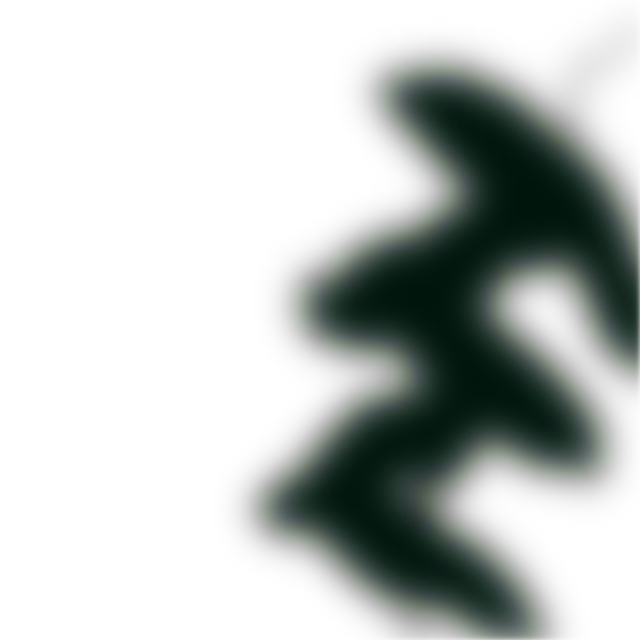
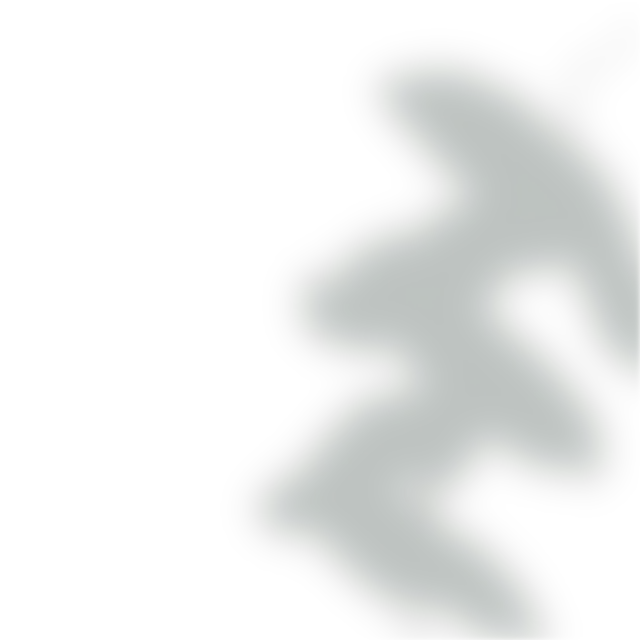
Mobile : un seul calque de fond, immobile, pour un défilement fluide
- Téléphones/tablettes : halo, ombres de feuilles et tapis réunis dans le
  fond de .mat ; .light, .glow et .shadow ne sont plus affichés.
- Calques fixes à la hauteur 100lvh : plus redimensionnés quand la barre
  d'adresse se replie pendant le défilement.
- Opacité des ombres intégrée aux images (plus légères : 23 et 20 Ko).

diff --git a/index.html b/index.html
@@ -50,14 +50,18 @@ html{scroll-padding-top:env(safe-area-inset-top,0px);-webkit-tap-highlight-color
 body{margin:0;background:var(--matdeep);color:var(--cream);font-family:"Bricolage Grotesque",system-ui,sans-serif;line-height:1.45}
 
 /* ===== Fond : tapis de découpe + lumière + ombres ===== */
-.mat{position:fixed;inset:0;z-index:0;pointer-events:none;
-  background:
+/* Calques fixes à la hauteur de l'écran le plus grand (lvh) : ils ne sont pas redimensionnés ni redessinés
+   quand la barre d'adresse du téléphone se replie pendant le défilement. */
+.mat,.glow{position:fixed;top:0;left:0;right:0;height:100vh;height:100lvh}
+.mat{z-index:0;pointer-events:none;
+  --grid:
    linear-gradient(rgba(255,255,255,.14) 1px,transparent 1px) 0 0/24px 24px,
    linear-gradient(90deg,rgba(255,255,255,.14) 1px,transparent 1px) 0 0/24px 24px,
    linear-gradient(rgba(255,255,255,.28) 2px,transparent 2px) 0 0/120px 120px,
    linear-gradient(90deg,rgba(255,255,255,.28) 2px,transparent 2px) 0 0/120px 120px,
    linear-gradient(45deg,transparent calc(50% - 1px),rgba(255,214,90,.28) 50%,transparent calc(50% + 1px)) 0 0/480px 480px,
-   radial-gradient(120% 90% at 30% 15%,var(--mat),var(--matdeep))}
+   radial-gradient(120% 90% at 30% 15%,var(--mat),var(--matdeep));
+  background:var(--grid)}
 /* Performances : aucun flou, filtre SVG ni mode de fusion calculé en direct (très coûteux sur mobile et en
    animation). Les rayons de lumière sont des dégradés déjà doux, les ombres de feuilles des images pré-floutées
    (img/leaf-s1.webp, img/leaf-s2.webp) : les animations ne font que déplacer des calques, le GPU suit sans peine. */
@@ -66,10 +70,10 @@ body{margin:0;background:var(--matdeep);color:var(--cream);font-family:"Bricolag
   -webkit-mask-image:radial-gradient(ellipse at 25% 12%,#000 0,transparent 68%);
   mask-image:radial-gradient(ellipse at 25% 12%,#000 0,transparent 68%);
   animation:drift 26s ease-in-out infinite alternate}
-.glow{position:fixed;inset:0;z-index:1;pointer-events:none;will-change:opacity;
+.glow{z-index:1;pointer-events:none;will-change:opacity;
   background:radial-gradient(60vmax 60vmax at 12% 0%,rgba(255,150,70,.34),transparent 70%),radial-gradient(45vmax 35vmax at 85% 72%,rgba(255,190,110,.12),transparent 70%);
   animation:breathe 9s ease-in-out infinite alternate}
-.shadow{position:fixed;z-index:1;width:95vmax;height:95vmax;pointer-events:none;opacity:.26;will-change:transform;background:center/100% 100% no-repeat}
+.shadow{position:fixed;z-index:1;width:95vmax;height:95vmax;pointer-events:none;will-change:transform;background:center/100% 100% no-repeat}  /* opacité (26 %) déjà intégrée aux images */
 .s1{background-image:url(img/leaf-s1.webp)}.s2{background-image:url(img/leaf-s2.webp)}
 .s1{top:-30vmax;right:-28vmax;transform-origin:100% 0;animation:sway1 15s ease-in-out infinite alternate}
 .s2{bottom:-34vmax;left:-30vmax;transform-origin:0 100%;animation:sway2 19s ease-in-out infinite alternate}
@@ -274,7 +278,17 @@ img.libn{display:block;width:100%;height:auto;aspect-ratio:4/1;object-fit:cover;
 /* ===== Focus clavier visible, mobile, mouvement réduit ===== */
 :focus-visible{outline:3px solid var(--yel);outline-offset:3px}
 .card :focus-visible,.tools :focus-visible,dialog :focus-visible,details :focus-visible,.pcard :focus-visible,.cta :focus-visible,.step :focus-visible{outline-color:var(--ink)}
-@media (max-width:700px),(pointer:coarse){.light,.glow,.shadow{animation:none}}
+/* Téléphones et tablettes : un seul calque de fond, immobile (halo + ombres de feuilles + tapis réunis),
+   au lieu de cinq calques plein écran à composer à chaque image du défilement */
+@media (max-width:700px),(pointer:coarse){
+  .light,.glow,.shadow{display:none}
+  .mat{background:
+    radial-gradient(60vmax 60vmax at 12% 0%,rgba(255,150,70,.34),transparent 70%),
+    radial-gradient(45vmax 35vmax at 85% 72%,rgba(255,190,110,.12),transparent 70%),
+    url(img/leaf-s1.webp) right -28vmax top -30vmax/95vmax 95vmax no-repeat,
+    url(img/leaf-s2.webp) left -30vmax bottom -34vmax/95vmax 95vmax no-repeat,
+    var(--grid)}
+}
 @media (prefers-reduced-motion:reduce){dialog.modal{transform:none}.bmcwrap{transform:none}}
 </style>
 </head>
